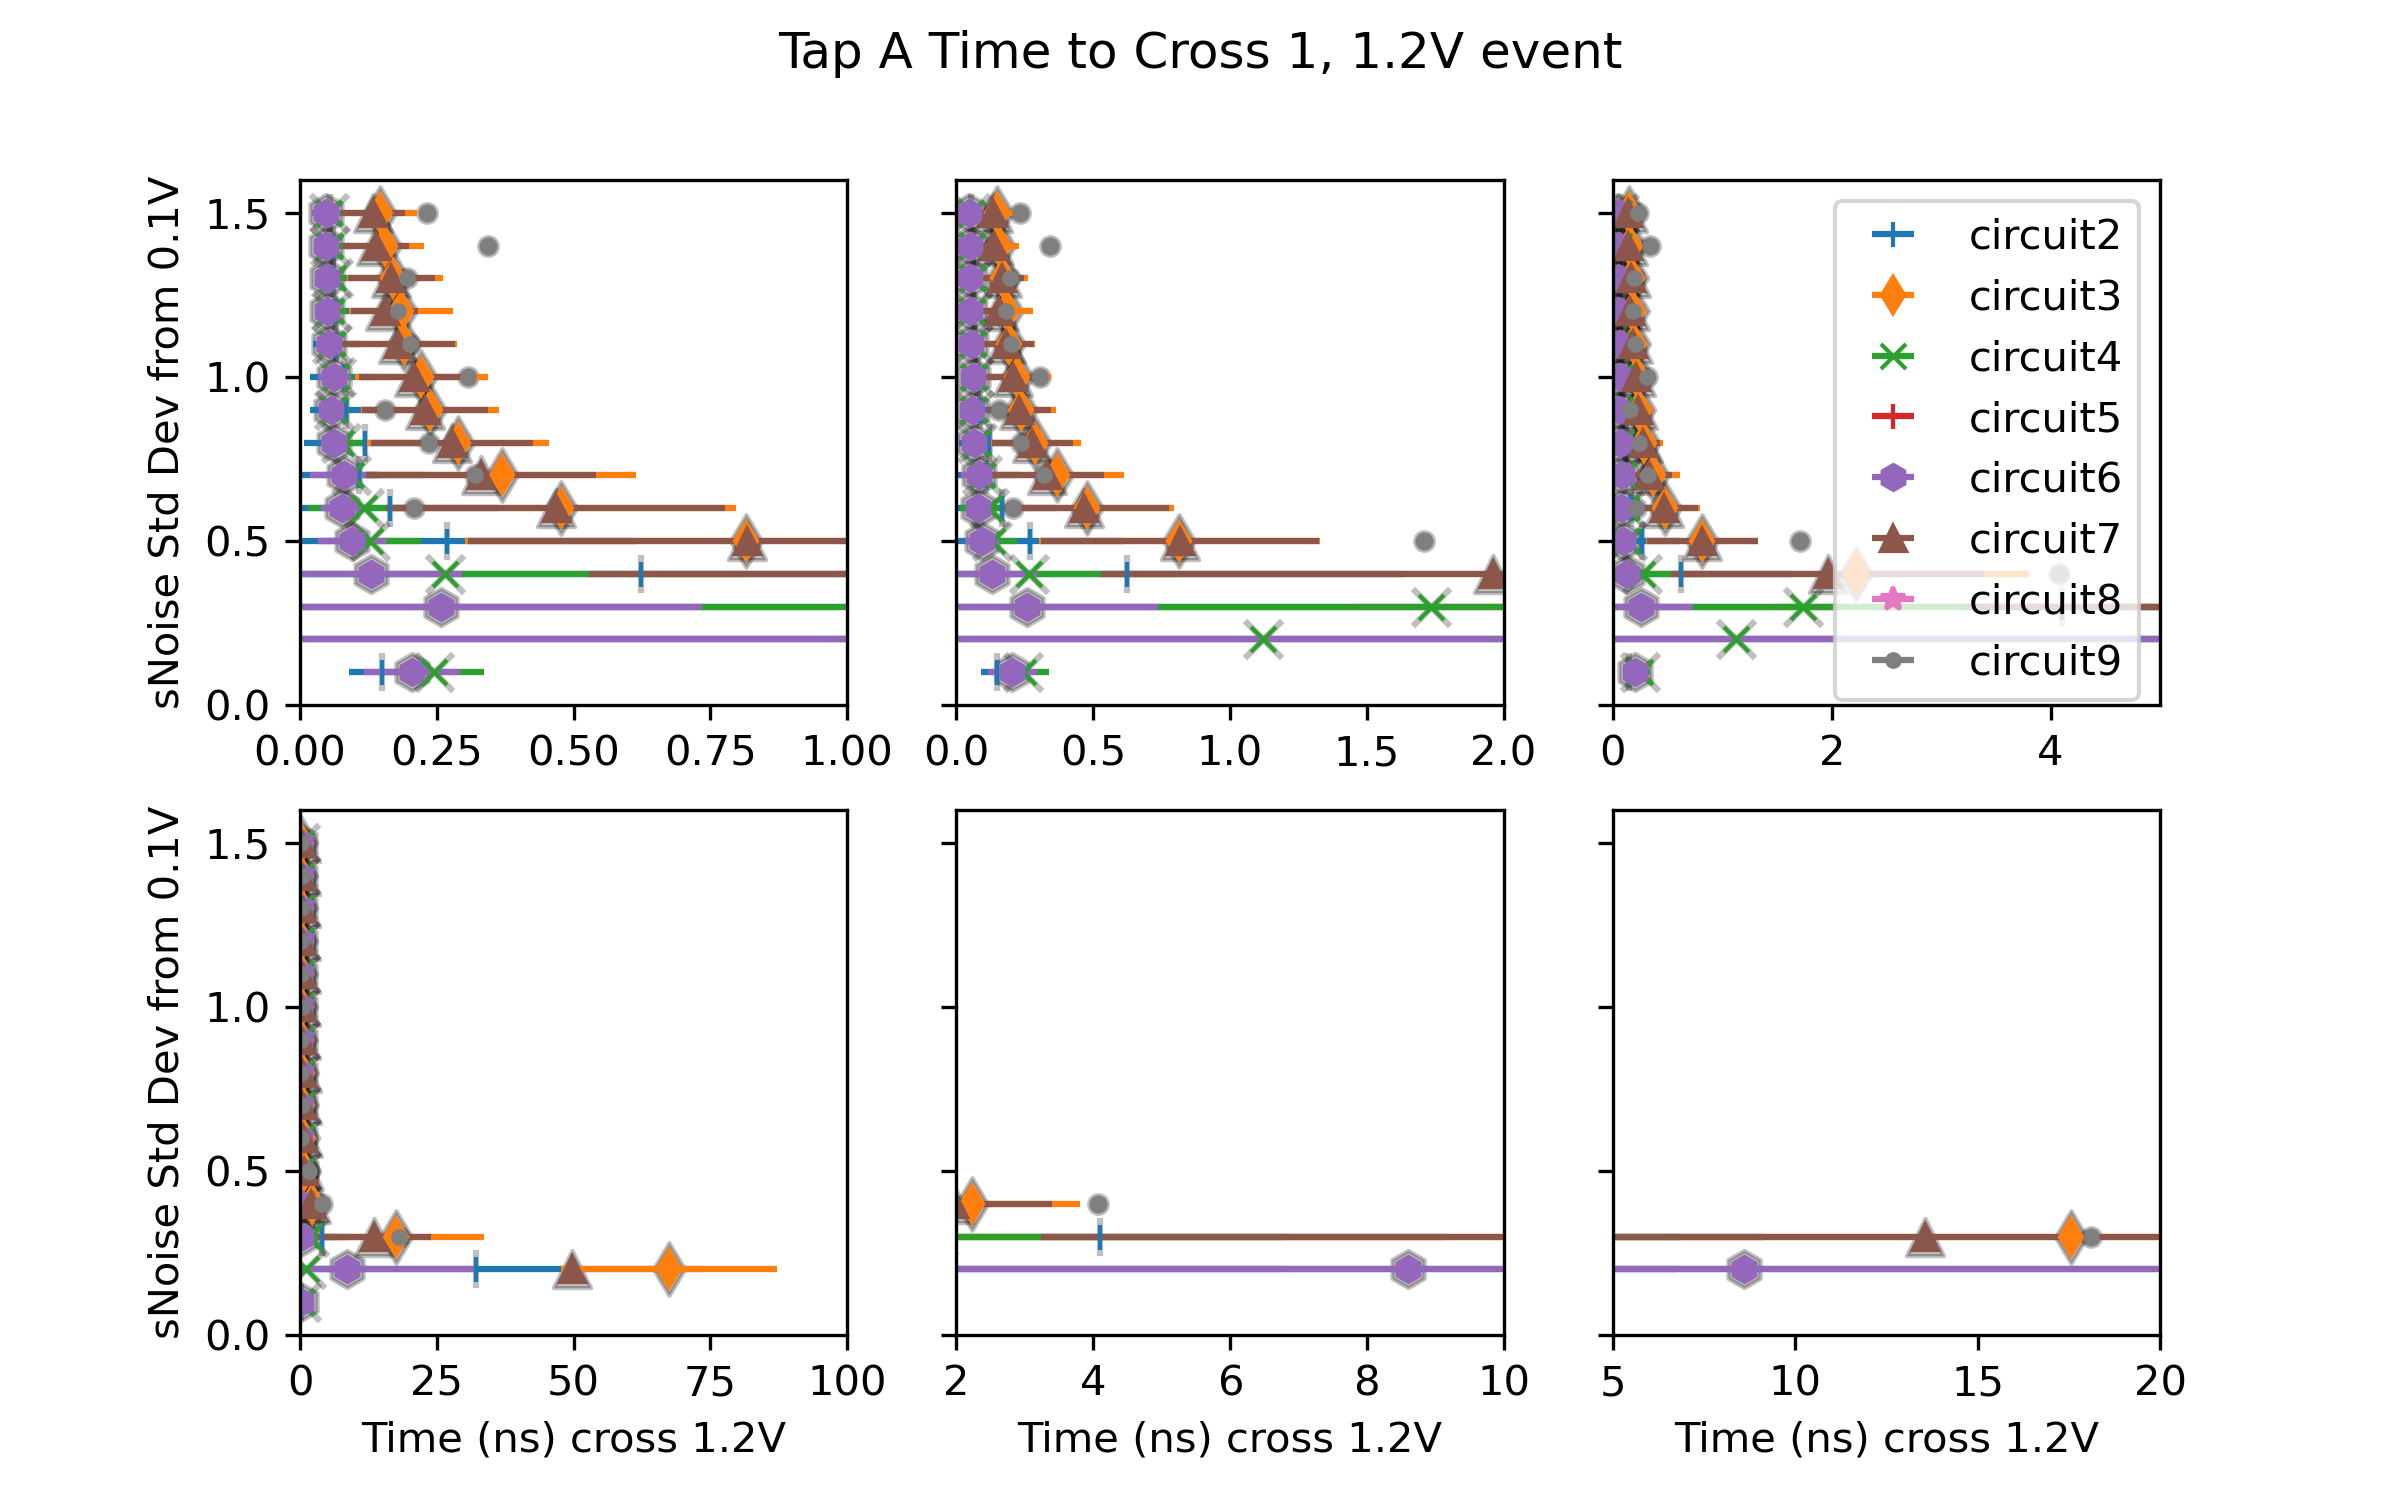
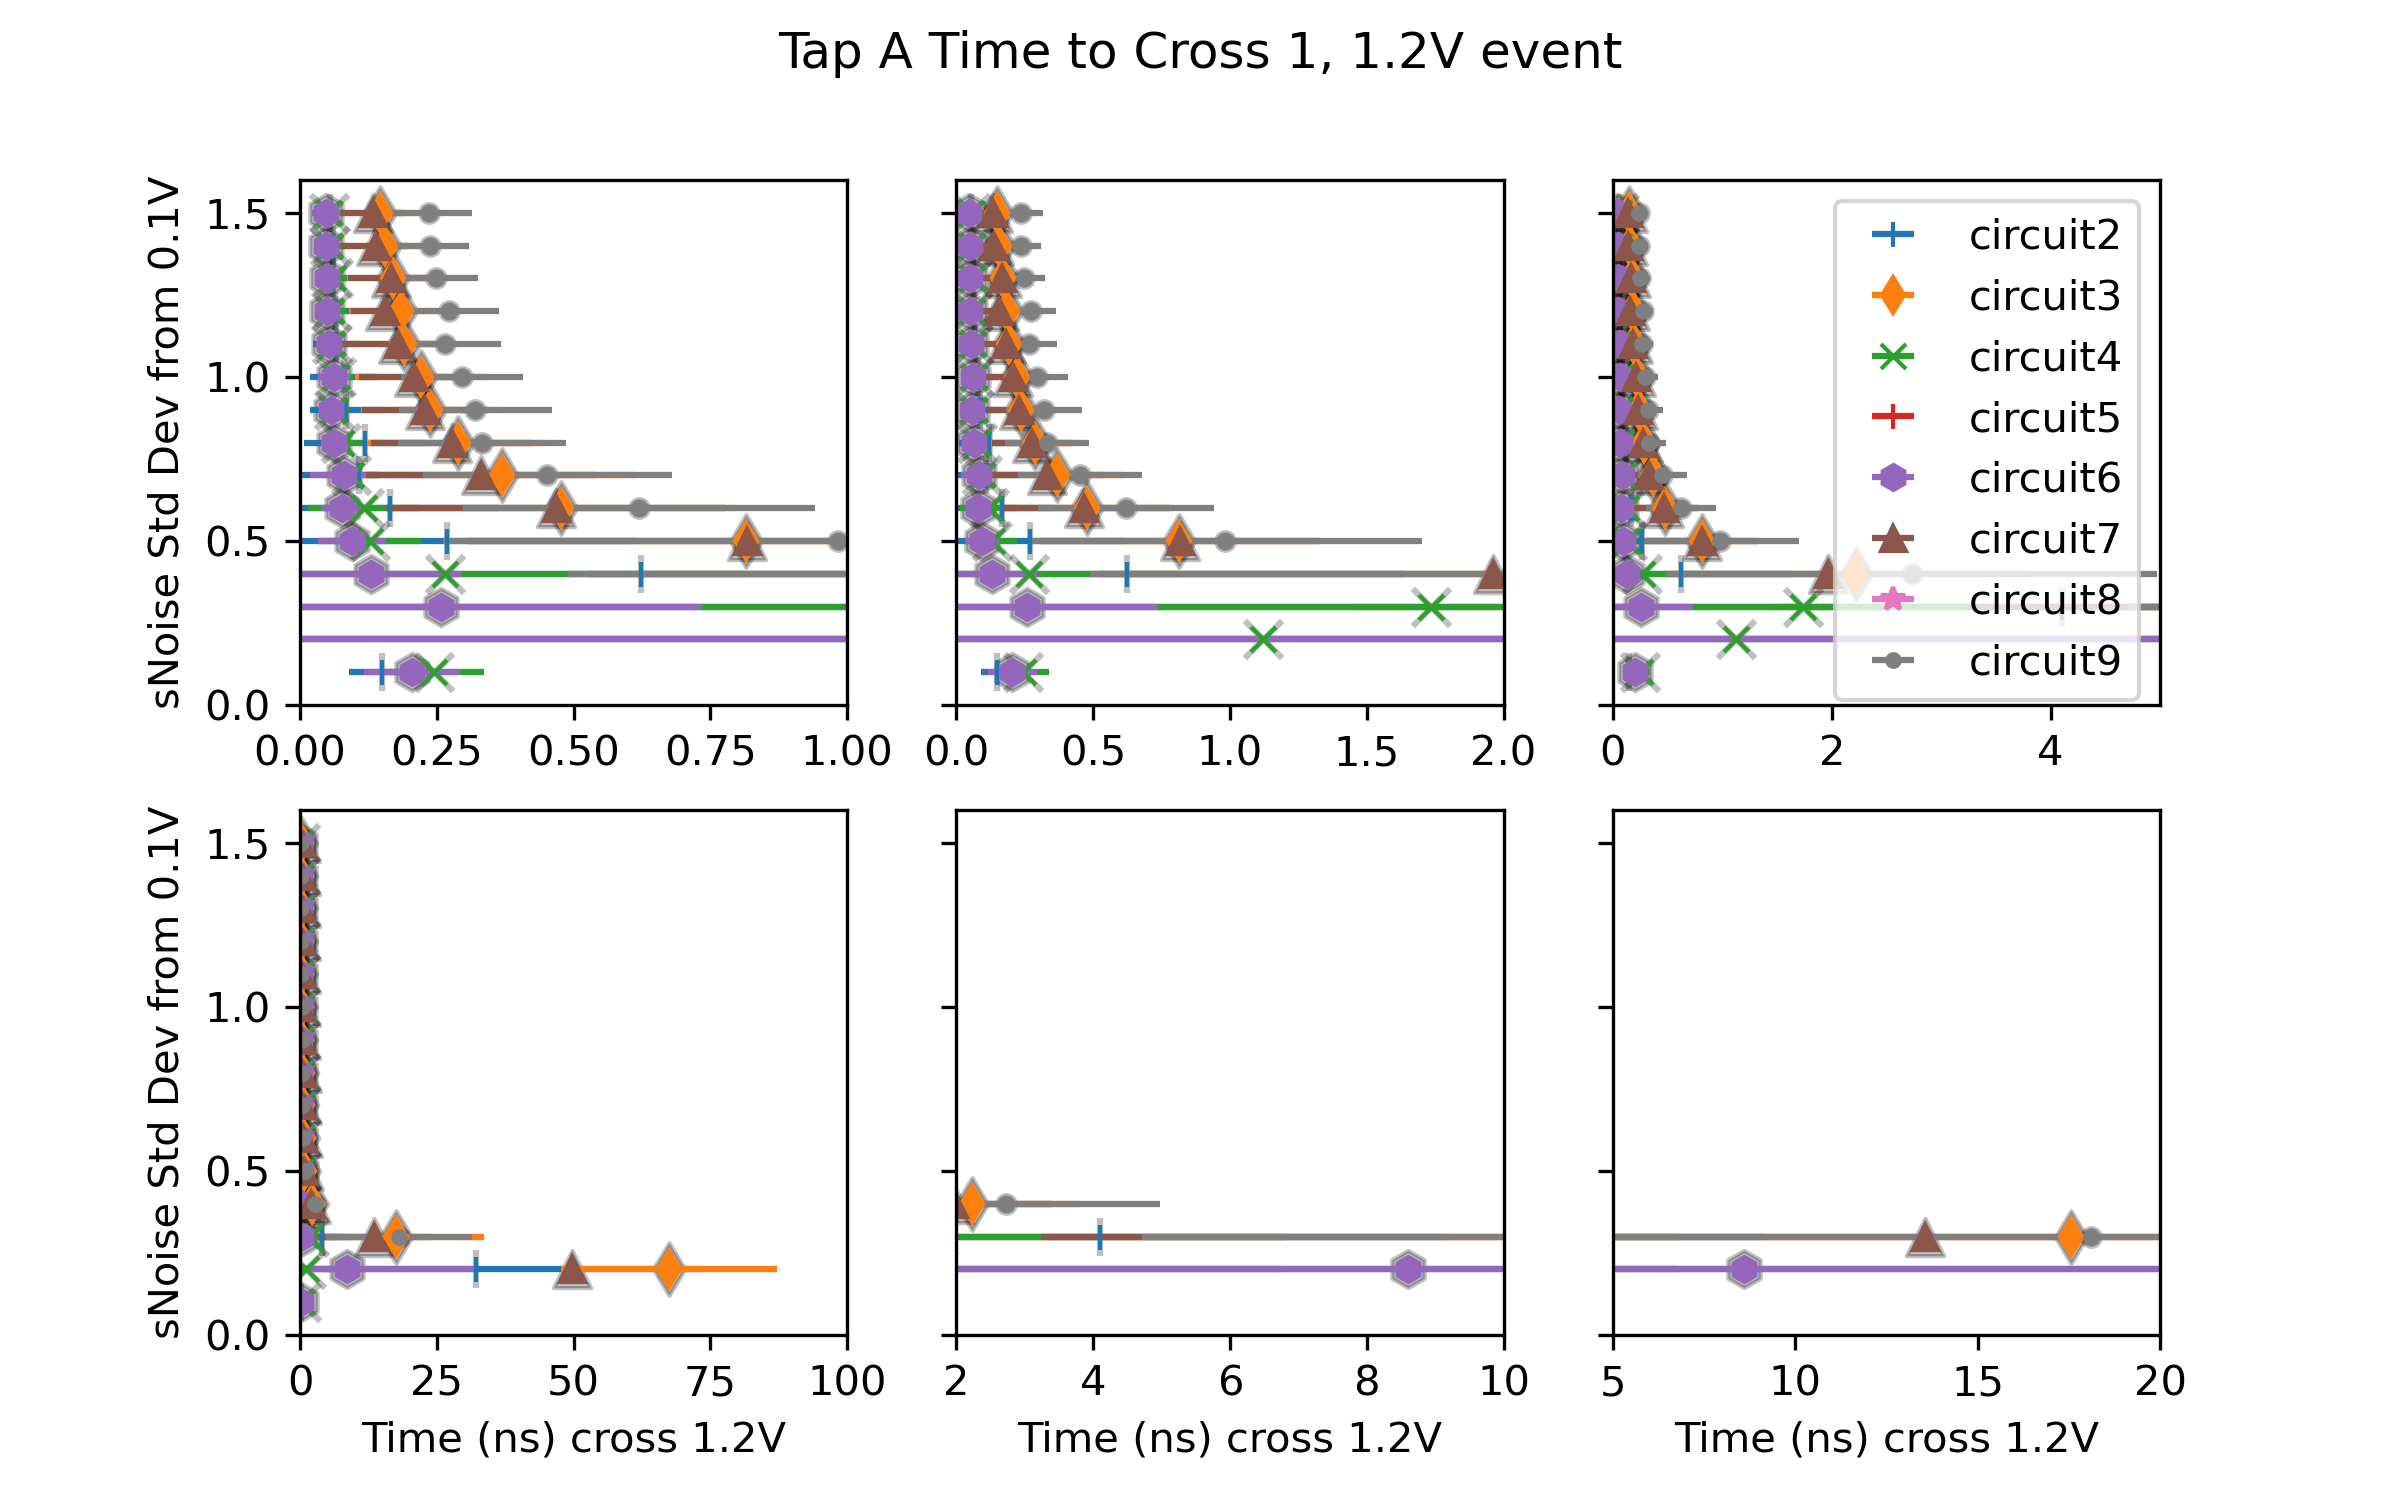
circuit 3 simulation time update

diff --git a/exp_mixingTime/read_events_exp_mixing_time_energy_all_circuits.py b/exp_mixingTime/read_events_exp_mixing_time_energy_all_circuits.py
@@ -1,0 +1,106 @@
+import os
+import numpy as np
+import statistics
+import matplotlib.pyplot as plt
+
+paths = ['circuit2/','circuit3/','circuit4/','circuit5/','circuit6/','circuit7/','circuit8/','circuit9/']
+iavg_meas_cir_labels = ['iavg ','iavg ','iavg ','iavg ','iavg ',
+						'iavg ','iavg ',"iavg "]
+
+circuit_marker = ["|","d","x","+","h","^","*","."]
+
+filenames = ["a","b","c","d","e","f","g","h","i","j","k","l","m","n","o","p","q","r"]
+label = {"a":0.1, "b":0.2,"c":0.3,"d":0.4,"e":0.5,"f":0.6,"g":0.7,"h":0.8,"i":0.9,"j":1.0,"k":1.1,"l":1.2,"m":1.3,
+		 "n":1.4,"o":1.5}
+label_to_index = {"0.1":0, "0.2": 1, "0.3": 2, "0.4": 3, "0.5": 4, "0.6": 5, "0.7": 6, "0.8": 7, "0.9": 8, "1.0": 9,
+					"1.1":10, "1.2":11,"1.3": 12, "1.4": 13, "1.5": 14}
+
+datapoints = 15
+energy_tap_a_cross1_to_cross4_x = []
+energy_tap_a_cross1_to_cross4_y = []
+iavg_x = []
+iavg_y = []
+
+# Gather data points from results files (format data.txt)
+l_cnt = 0
+for path in paths:
+	energy_tap_a_cross1_to_cross4_x.append([])
+	energy_tap_a_cross1_to_cross4_y.append([])
+	circuit_label = path.strip("/")
+	iavg_meas_cir_label = iavg_meas_cir_labels[l_cnt]
+	iavg_x.append([])
+	iavg_y.append([])
+		
+	files = os.listdir(path)
+
+	for name_o_file in files:
+		f = open(path+name_o_file,"r")
+		lab = name_o_file.split(".")[0][-1]
+		ra1_float_ns = 0.0
+		ra4_float_ns = 0.0
+		tdiff_check = 0.0
+		ra1_bool = False
+		ra4_bool = False
+		tdiff_float = 0.0
+		iavg_float = 0.0
+		iavg_from_float_ns = 0.0
+		iavg_to_float_ns = 0.0
+		iavg_tdiff_float_ns = 0.0
+		for line in f:
+			if line.startswith("responsetimea1"):
+				line_split = line.split()
+				#print(circuit_label, name_o_file, line_split, len(line_split))
+				ra1_float_ns = float(line_split[2]) * 1000000000.0
+				ra1_bool = True
+			if line.startswith("responsetimea4"):
+				line_split = line.split()
+				#print(circuit_label, name_o_file, line_split, len(line_split))
+				ra4_float_ns = float(line_split[2]) * 1000000000.0
+				ra4_bool = True
+			if line.startswith("tdiff "):
+				line_split = line.split()
+				#print(circuit_label, name_o_file, line_split, len(line_split))
+				tdiff_float_ns = float(line_split[2]) * 1000000000.0
+				tdiff_float = float(line_split[2])
+			if line.startswith("tdiffb"):
+				line_split = line.split()
+				#print(circuit_label, name_o_file, line_split, len(line_split))
+			if line.startswith(iavg_meas_cir_label):
+				line_split = line.split()
+				#print(circuit_label, name_o_file, line_split, len(line_split))
+				if (len(line_split) == 7):
+					iavg_float = float(line_split[2])
+					iavg_from_float_ns = float(line_split[4]) * 1000000000.0
+					iavg_to_float_ns = float(line_split[6]) * 1000000000.0
+					iavg_tdiff_float_ns = iavg_to_float_ns - iavg_from_float_ns
+					iavg_x[l_cnt].append(iavg_float)
+					iavg_y[l_cnt].append(label[lab])
+		#print(circuit_label, name_o_file,ra1_bool, ra4_bool)
+		if ra1_bool and ra4_bool:
+			if tdiff_float == 0.0:
+				tdiff_float = abs((ra4_float_ns-ra1_float_ns)) /  1000000000.0
+			energy_in_joules =  abs(1.8*iavg_float*tdiff_float)
+			energy_tap_a_cross1_to_cross4_x[l_cnt].append(energy_in_joules)
+			energy_tap_a_cross1_to_cross4_y[l_cnt].append(label[lab])
+			print(circuit_label, name_o_file, iavg_float, tdiff_float, 'energy:',energy_in_joules)
+	l_cnt += 1
+
+circuit_marker = ["|","d","x","+","h","^","*","."]
+fig, axs = plt.subplots(2, 1, figsize=(8, 8), sharex=False, sharey=True)
+i = 0
+while i < len(circuit_label):
+	axs[0].set_ylim(0, 1.6)
+	axs[0].scatter(energy_tap_a_cross1_to_cross4_x[i], energy_tap_a_cross1_to_cross4_y[i], alpha=0.5,
+				   label=paths[i].strip("/"), marker=circuit_marker[i], s=80)
+	#axs[0].set_xlim(0, 1e-12)
+	axs[1].scatter(energy_tap_a_cross1_to_cross4_x[i], energy_tap_a_cross1_to_cross4_y[i], alpha=0.5,
+				   label=paths[i].strip("/"),marker=circuit_marker[i], s=80)
+	axs[1].set_xlim(1e-18, 1e-12)
+	i += 1
+axs[0].legend()
+axs[0].set_ylabel("sNoise Std Dev from 0.1V")
+axs[0].set_xlabel("Energy (j)")
+axs[1].set_xlabel("Energy (j)")
+fig.suptitle('Mixing Time Energy Tap A Cross 1 to Cross 4')
+plt.savefig('../exp_mixing_time_energy_tapa_cross1_tapa_cross4.png', dpi=300)
+plt.close()

diff --git a/exp_mixingTime/spice_file_maker_circuit3.py b/exp_mixingTime/spice_file_maker_circuit3.py
@@ -26,16 +26,11 @@ meas tran responseTimeB1 WHEN v(outB)=1.2 CROSS=1\n \
 meas tran responseTimeB2 WHEN v(outB)=1.2 CROSS=2\n \
 meas tran responseTimeB3 WHEN v(outB)=1.2 CROSS=3\n \
 meas tran responseTimeB4 WHEN v(outB)=1.2 CROSS=4\n \
-let tdiff = responsetimea4-responsetimea1\n \
-print tdiff\n \
-meas tran iavg avg i(v3) FROM=responsetimea1 TO=responsetimea4 \n \
-print iavg\n "
-
-
-shortfooter = ".control \n \
-*plot v(outA) v(outB) v(sNoise)\n \
-*plot i(v3)\n \
-tran 10ps 20ns \n "
+meas tran iavg_start_to_response_a1 avg i(v3) FROM=0 TO=responsetimea1 \n \
+meas tran iavg_start_to_response_b1 avg i(v3) FROM=0 TO=responsetimeb1 \n \
+meas tran iavg_from_response_a1_to_response_a4 avg i(v3) FROM=responsetimea1 TO=responsetimea4 \n \
+meas tran iavg_from_response_b1_to_response_b4 avg i(v3) FROM=responsetimeb1 TO=responsetimeb4 \n \
+meas tran iavg_from_response_a1_to_response_b1 avg i(v3) FROM=responsetimeb1 TO=responsetimea1 \n "
 
 footer2 = "*quit\n \
 .endc\n \
